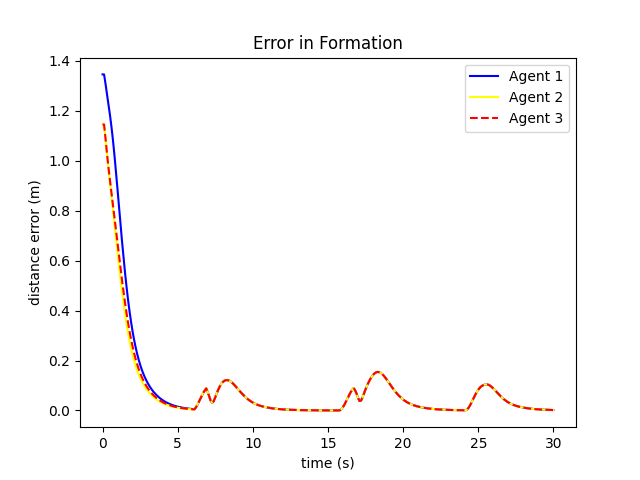
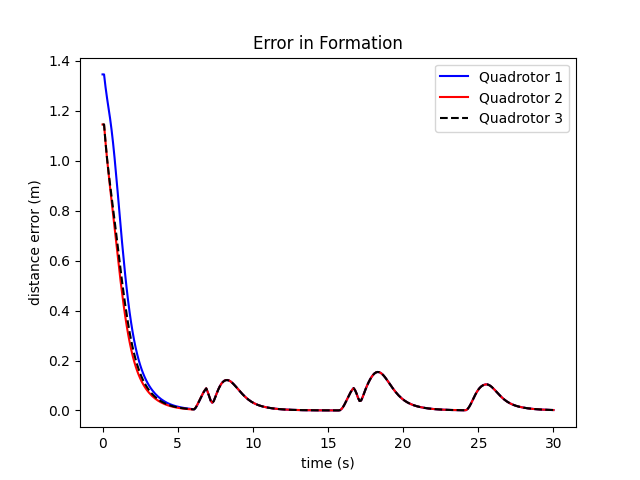
Update

diff --git a/src/analysis.py b/src/analysis.py
@@ -3,10 +3,10 @@ import numpy as np
 import matplotlib.pyplot as plt
 
 desire = [[0.25,0,1],[-0.25,0.5,1],[-0.25,-0.5,1]]
-jackal_data = np.genfromtxt('jackal.csv', delimiter=',')
-mambo_01_data = np.genfromtxt('mambo_01.csv', delimiter=',')
-mambo_02_data = np.genfromtxt('mambo_02.csv', delimiter=',')
-mambo_03_data = np.genfromtxt('mambo_03.csv', delimiter=',')
+jackal_data = np.genfromtxt('jackal_1_long.csv', delimiter=',')
+mambo_01_data = np.genfromtxt('mambo_01_1_long.csv', delimiter=',')
+mambo_02_data = np.genfromtxt('mambo_02_1_long.csv', delimiter=',')
+mambo_03_data = np.genfromtxt('mambo_03_1_long.csv', delimiter=',')
 
 # desire = [[0.5,0,1],[-0.,0.75,1],[-0.,-0.75,1]]
 # jackal_data = np.genfromtxt('experiment/traj/run18/jackal.csv', delimiter=',')
@@ -32,13 +32,38 @@ for idx in range(len(jackal_data[0])):
     error3 = np.sqrt((mambo_03_data[1][idx]-ref[6][idx])**2 + (mambo_03_data[2][idx]-ref[7][idx])**2 + (mambo_03_data[3][idx]-ref[8][idx])**2)
     error[2][idx] = error3
 
+
+waypoints = [[-0.5,0.5], [0.8,-1.35], [2,0]]
+ref_x = []
+ref_y = []
+epsilon = 0.01
+reached = 0
+for idx in range(len(jackal_data[0])):
+    ref_x.append(waypoints[reached][0])
+    ref_y.append(waypoints[reached][1])
+    if ((jackal_data[1][idx] - waypoints[reached][0])**2 + (jackal_data[2][idx] - waypoints[reached][1])**2 <= epsilon**2):
+        if reached < len(waypoints)-1:
+            reached += 1
+
+
 fig, ax = plt.subplots()
-ax.plot(jackal_data[0], error[0], color="blue", label='Agent 1')
-ax.plot(jackal_data[0], error[1], color="green", label='Agent 2')
-ax.plot(jackal_data[0], error[2], color="red", linestyle="dashed", label='Agent 3')
+ax.plot(jackal_data[0], error[0], color="blue", label='Quadrotor 1')
+ax.plot(jackal_data[0], error[1], color="red", label='Quadrotor 2')
+ax.plot(jackal_data[0], error[2], color="black", linestyle="dashed", label='Quadrotor 3')
 ax.set_xlabel('time (s)')
 ax.set_ylabel('distance error (m)')
 ax.set_title('Error in Formation')
 ax.legend()
 
+fig2, ax2 = plt.subplots(2,1)
+ax2[0].plot(jackal_data[0], jackal_data[1], color='blue', label='Actual')
+ax2[0].plot(jackal_data[0], ref_x, color='red', linestyle='dashed', label='Reference')
+ax2[0].set_ylabel('X (m)')
+ax2[0].set_title('Leader Trajectory')
+ax2[0].legend()
+
+ax2[1].plot(jackal_data[0], jackal_data[2], color='blue')
+ax2[1].plot(jackal_data[0], ref_y, color='red', linestyle='dashed')
+ax2[1].set_ylabel('Y (m)')
+ax2[1].set_xlabel('time (s)')
 plt.show()

diff --git a/test/plot_3d.py b/test/plot_3d.py
@@ -14,16 +14,16 @@ value_non_obs = 0
 value_obs = 255
 obs_size = 0.26
 
-simulationFlag = False
+simulationFlag = True
 
 agent_position = [0,0,0, 0,0,0, 0,0,0, 0,0,0]
 obs_position = [[-0.65-obs_size,-0.28-5*obs_size,obs_size,5*obs_size], [0.73,-0.60,obs_size,5*obs_size]]
 
 if simulationFlag:
-    jackal_data = np.genfromtxt('jackal.csv', delimiter=',')
-    mambo_01_data = np.genfromtxt('mambo_01.csv', delimiter=',')
-    mambo_02_data = np.genfromtxt('mambo_02.csv', delimiter=',')
-    mambo_03_data = np.genfromtxt('mambo_03.csv', delimiter=',')
+    jackal_data = np.genfromtxt('jackal_1.csv', delimiter=',')
+    mambo_01_data = np.genfromtxt('mambo_01_1.csv', delimiter=',')
+    mambo_02_data = np.genfromtxt('mambo_02_1.csv', delimiter=',')
+    mambo_03_data = np.genfromtxt('mambo_03_1.csv', delimiter=',')
     waypoints = [[-0.5,0.5], [0.8,-1.35], [2,0]]
 else:
     # jackal_data = np.genfromtxt('experiment/traj/run18/jackal.csv', delimiter=',')
@@ -114,7 +114,7 @@ ax.plot(mambo_03_position[0::3], mambo_03_position[1::3], mambo_03_position[2::3
 # ax.plot(mambo_02_position_ref[0::3], mambo_02_position_ref[1::3], mambo_02_position_ref[2::3], color='green')
 # ax.plot(mambo_03_position_ref[0::3], mambo_03_position_ref[1::3], mambo_03_position_ref[2::3], color='green')
 ax.scatter(agent_position[0], agent_position[1], agent_position[2], color='red', label='Leader')
-ax.scatter(agent_position[3], agent_position[4], agent_position[5], color='blue', label='Agents')
+ax.scatter(agent_position[3], agent_position[4], agent_position[5], color='blue', label='Quadrotors')
 ax.scatter(agent_position[6], agent_position[7], agent_position[8], color='blue')
 ax.scatter(agent_position[9], agent_position[10], agent_position[11], color='blue')
 ax.plot(formation[0], formation[1], formation[2], color='y', label='Formation')

diff --git a/src/plot_traj.py b/src/plot_traj.py
@@ -249,7 +249,7 @@ class Simulator:
         """
         ax.set_xlabel("x (m)")
         ax.set_ylabel("y (m)")
-        # ax.set_title("T = 25s", fontweight='bold')
+        ax.set_title("T = 25s", fontweight='bold')
         ax.set_xlim([self.map_center[0]-self.map_width_meter/2, self.map_center[0]+self.map_width_meter/2])
         ax.set_ylim([self.map_center[1]-self.map_height_meter/2, self.map_center[1]+self.map_height_meter/2])
 
@@ -257,7 +257,7 @@ class Simulator:
         if legend_flag:
             colors = ["red", "blue", "red"]
             marker_list = ["o", "o", "*"]
-            labels = ["Leader", "Agent", "Waypoint"]
+            labels = ["Leader", "Quadrotors", "Waypoints"]
             f = lambda m,c: plt.plot([],[],marker=m, color=c, ls="none")[0]
             handles = [f(marker_list[i], colors[i]) for i in range(len(labels))]
 
@@ -291,10 +291,10 @@ if __name__ == '__main__':
     obs_position = [[-0.65-obs_size,-0.28-5*obs_size,obs_size,5*obs_size], [0.73,-0.60,obs_size,5*obs_size]]
 
     if simulationFlag:
-        jackal_data = np.genfromtxt('jackal.csv', delimiter=',')
-        mambo_01_data = np.genfromtxt('mambo_01.csv', delimiter=',')
-        mambo_02_data = np.genfromtxt('mambo_02.csv', delimiter=',')
-        mambo_03_data = np.genfromtxt('mambo_03.csv', delimiter=',')
+        jackal_data = np.genfromtxt('jackal_1.csv', delimiter=',')
+        mambo_01_data = np.genfromtxt('mambo_01_1.csv', delimiter=',')
+        mambo_02_data = np.genfromtxt('mambo_02_1.csv', delimiter=',')
+        mambo_03_data = np.genfromtxt('mambo_03_1.csv', delimiter=',')
         target_position = [-0.5,0.5, 0.8,-1.35, 2,0]
     else:
         jackal_data = np.genfromtxt('experiment/traj_records/jackal.csv', delimiter=',')

diff --git a/src/FormationSim.py b/src/FormationSim.py
@@ -112,12 +112,12 @@ class FormationSim:
         P = np.matrix(scipy.linalg.solve_discrete_are(self.Ad, self.Bd, self.Q, self.R))
         self.K = np.matrix(np.matmul(scipy.linalg.inv(self.R + self.Bd.T*P*self.Bd),self.Bd.T)*P*self.Ad)
 
-        self.MySimulator = Simulator
+        # self.MySimulator = Simulator
 
     def run(self):
         u = np.zeros((self.Quad.dimInputs, 1))
 
-        ax = self.MySimulator.create_realtime_plot(realtime_flag=True, cluster_legend_flag=True, path_legend_flag=True)
+        # ax = self.MySimulator.create_realtime_plot(realtime_flag=True, cluster_legend_flag=True, path_legend_flag=True)
 
         timeNow = 0.0
         timeTraj = np.array([timeNow], dtype=np.float64)

diff --git a/test/test_Formation.py b/test/test_Formation.py
@@ -12,13 +12,13 @@ from FormationSim import FormationSim
 configDict = {"dt": 0.1, "stepNumHorizon": 10, "startPointMethod": "zeroInput"}
 
 buildFlag = True
-saveFlag = Fasle
+saveFlag = False
 multipleFormation = False
 
 iniJackal = [-2,0,0]
 iniQuad = [[-2.5,0.5,0],[-2.5,1,0],[-2.5,-1,0]]
 
-desire = [[0.25,0,1],[-0.25,0.5,1],[-0.25,-0.5,1]]
+desire = [[0.25,0,0.8],[-0.25,0.5,1],[-0.25,-0.5,1]]
 t_change = np.inf
 
 if multipleFormation:
